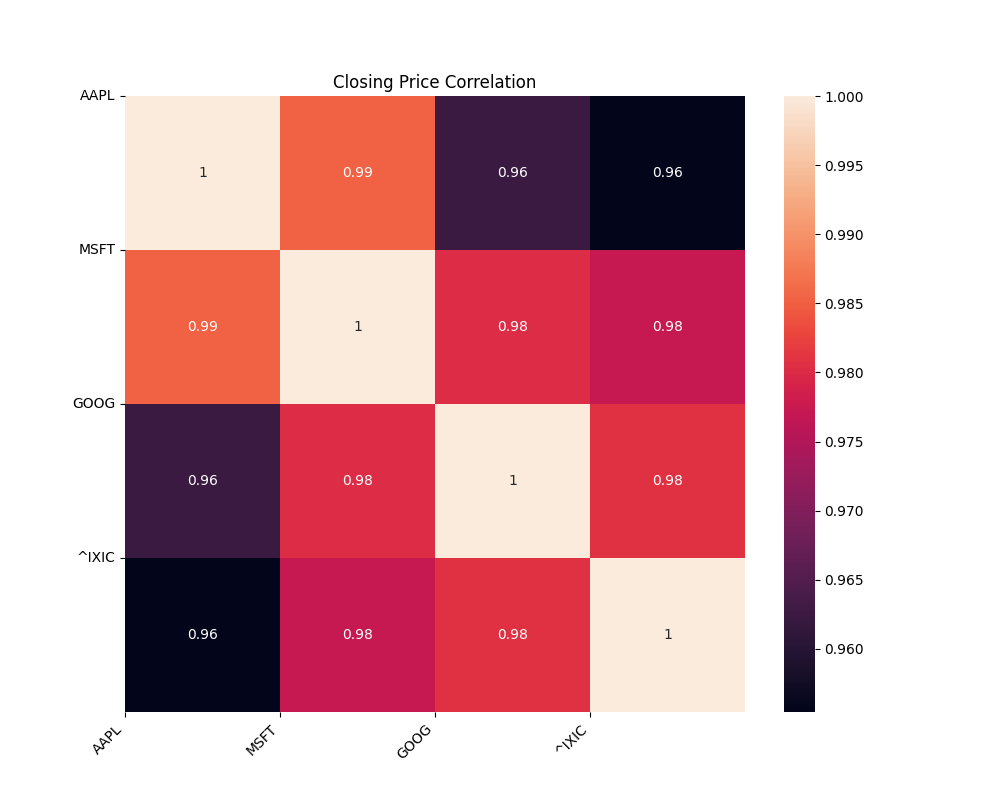
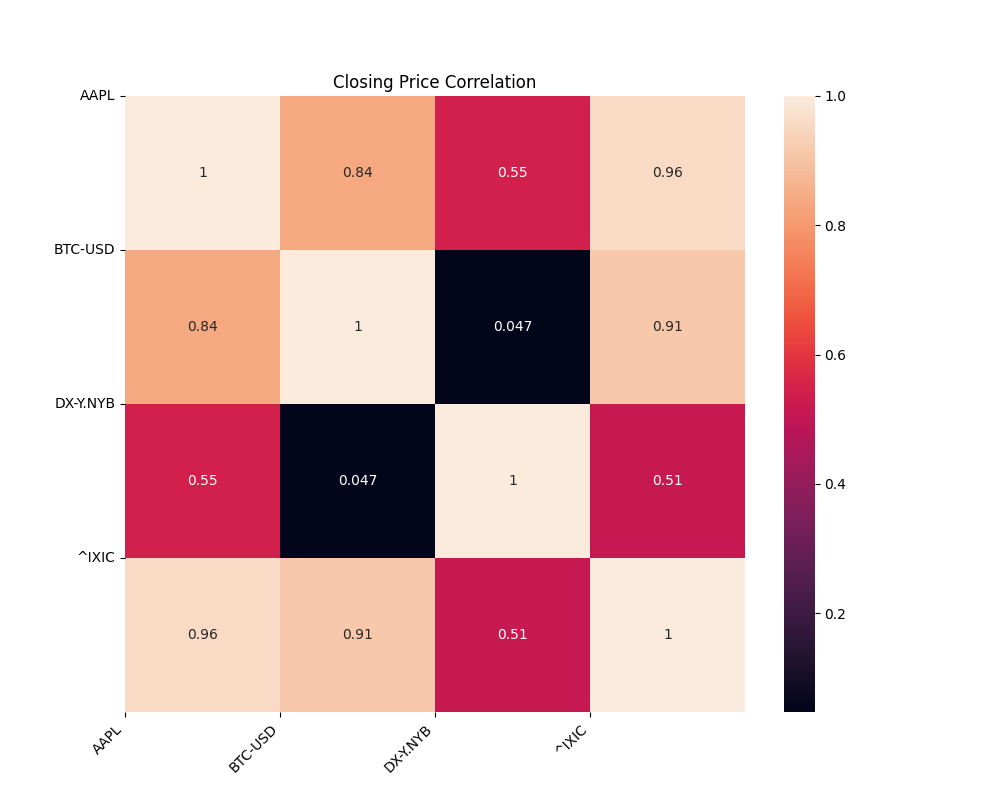
Added new images and results

diff --git a/main.py b/main.py
@@ -37,7 +37,7 @@ os.environ["CUDA_VISIBLE_DEVICES"] = "-1"
 
 
 def data_analysis(): 
-    stock_name = ['AAPL', 'MSFT', 'GOOG', '^IXIC']
+    stock_name = ['AAPL', 'BTC-USD', 'DX-Y.NYB', '^IXIC']
     end = datetime(2023, 10, 30)
     start = datetime(2012, 10, 30)
 
@@ -53,7 +53,7 @@ def data_analysis():
     #create_graph_delta(stock_name, stock_list)
 
     combined_list = []
-    combined_name = ['AAPL', 'AAPL_D', 'MSFT', 'MSFT_D', 'GOOG', 'GOOG_D', 'NASDAQ', 'NASDAQ_D']
+    combined_name = ['AAPL', 'AAPL_D', 'bitcoin', 'bitcoin_D', 'USDX', 'USDX_D', 'NASDAQ', 'NASDAQ_D']
     for stock, delta in zip(stock_list, delta_1_list):
         combined_list.append(stock)
         combined_list.append(delta)
@@ -179,7 +179,6 @@ def single_improved_model(model_params, iterations=1):
 
     evaluate_single_improved(RMSE, MAPE, path = 'results/results_single_improved_model', **model_params)
 
-
 def main():
     model_params = {
         'features_lstm': 128,
@@ -190,20 +189,23 @@ def main():
         'clipvalue': 1.0,
         'optimizer' : 'Adam'
     }
-    #data_analysis()
+    
+    '''
+    for optimizer in ('Adam', 'Adagrad', 'RMSprop', 'SGD'):
+        model_params['optimizer'] = optimizer
+        for learning_rate in (0.1, 0.01, 0.001):
+            model_params['learning_rate'] = learning_rate
+            for batch_size in (1, 4, 8, 16): 
+                model_params['batch_size'] = batch_size
+                single_improved_model(model_params, 10)
+    '''
+
+    data_analysis()
     #single_model()
     #single_delta_model()
     #multi_model()
     #single_improved_model(model_params)
     
-    for batch_size in (1, 4, 8, 16): 
-        model_params['batch_size'] = batch_size
-        for learning_rate in (0.1, 0.01, 0.001):
-            model_params['learning_rate'] = learning_rate
-            for optimizer in ('Adam', 'Adagrad', 'RMSprop', 'SGD'):
-                model_params['optimizer'] = optimizer
-                single_improved_model(model_params, 10)
-                
 
 if __name__ == '__main__':
     main()

diff --git a/single_improved.py b/single_improved.py
@@ -72,7 +72,7 @@ def single_improved_model_train(x_train, y_train, x_val, y_val, features_lstm = 
 
     model = Sequential()
     model.add(LSTM(features_lstm, return_sequences=False, input_shape=(x_train.shape[1], x_train.shape[2])))
-    #model.add(Dense(features_dense, activation='linear'))
+    model.add(Dense(features_dense, activation='linear'))
     model.add(Dense(1, activation='linear'))
     model.compile(optimizer=optimizer, loss='mean_squared_error', metrics = ['MAPE'])
 
@@ -118,7 +118,8 @@ def analyze_single_improved(y_test, predictions, features_lstm = 128, features_d
 def evaluate_single_improved(rmse, mape, path = 'results/results_single_improved_model.txt', features_lstm = 128, features_dense = 25, optimizer = 'Adam', max_epochs = 1, batch_size=1, learning_rate=0.001, clipvalue=1.0):
     print(f'rmse: {rmse}, MAPE: {mape}')
     with open(path, 'a') as f:
-        f.write(f'rmse: {rmse}, MAPE: {mape} - features_lstm: {features_lstm}, feature_dense: {features_dense}, optimizer: {optimizer}, batch_size: {batch_size}, learning_rate: {learning_rate}, clipvalue: {clipvalue}\n')
+        #f.write(f'rmse: {rmse}, MAPE: {mape} - features_lstm: {features_lstm}, feature_dense: {features_dense}, optimizer: {optimizer}, batch_size: {batch_size}, learning_rate: {learning_rate}, clipvalue: {clipvalue}\n')
+        f.write(f'rmse: {rmse}, MAPE: {mape} - optimizer: {optimizer}, batch_size: {batch_size}, learning_rate: {learning_rate}\n')
 
 def return_metrics_single_improved(y_test, predictions):
     RMSE = 0
